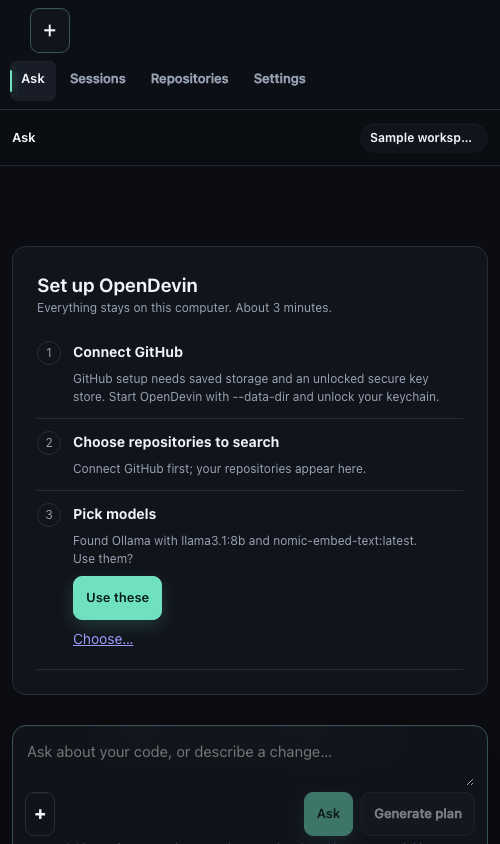
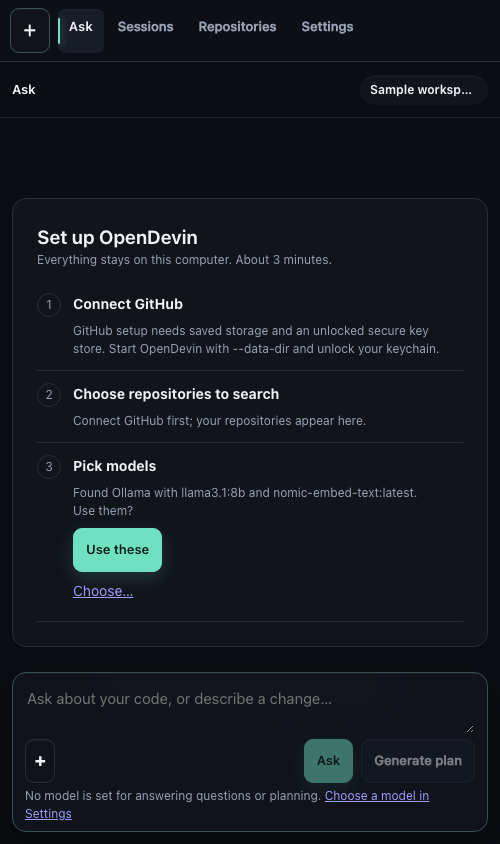
fix(web): align compact workspace geometry

diff --git a/repoask/web/styles.css b/repoask/web/styles.css
@@ -1468,19 +1468,18 @@ dialog, dialog.modal { border-color: color-mix(in srgb, var(--line) 78%, var(--a
 
 @media (max-width: 760px) {
   .btn, .button, .ask-button, .publication-primary, .icon-button { min-height: 44px; }
-  .rail { position: sticky; top: 0; z-index: 8; padding: 8px 10px; gap: 8px; background: color-mix(in srgb, var(--sunken) 94%, transparent); backdrop-filter: blur(16px); }
-  .rail .brand { min-height: 40px; padding: 0 6px; }
-  .rail .brand > span:last-child { display: none; }
-  .rail-new { min-height: 40px; padding-inline: 10px; font-size: 0; }
+  .rail { position: sticky; top: 0; z-index: 8; flex-wrap: nowrap; height: 62px; padding: 8px 10px; gap: 8px; background: color-mix(in srgb, var(--sunken) 94%, transparent); backdrop-filter: blur(16px); }
+  .rail .brand { display: none; }
+  .rail-new { flex: none; min-height: 44px; padding-inline: 10px; font-size: 0; }
   .rail-new span { margin: 0; font-size: 18px; }
-  .rail .primary-nav { min-width: 0; overflow-x: auto; }
+  .rail .primary-nav { order: initial; width: auto; min-width: 0; overflow-x: auto; }
   .rail .primary-nav ul { flex-wrap: nowrap; }
-  .rail .primary-nav a { min-height: 40px; padding-inline: 11px; white-space: nowrap; }
-  .page-top { top: 57px; min-width: 0; padding-inline: 12px; }
+  .rail .primary-nav a { min-height: 44px; padding-inline: 11px; white-space: nowrap; }
+  .page-top { top: 62px; min-width: 0; padding-inline: 12px; }
   .workspace-mode-detail, .mode { display: none; }
   .workspace-mode { max-width: 128px; overflow: hidden; }
   .workspace-mode strong { overflow: hidden; text-overflow: ellipsis; }
-  .workspace { grid-template-columns: minmax(0, 1fr); height: calc(100dvh - 113px); }
+  .workspace { grid-template-columns: minmax(0, 1fr); height: calc(100dvh - 118px); }
   .page-inner { padding-top: 24px; }
   .examples { grid-template-columns: minmax(0, 1fr); }
 }
